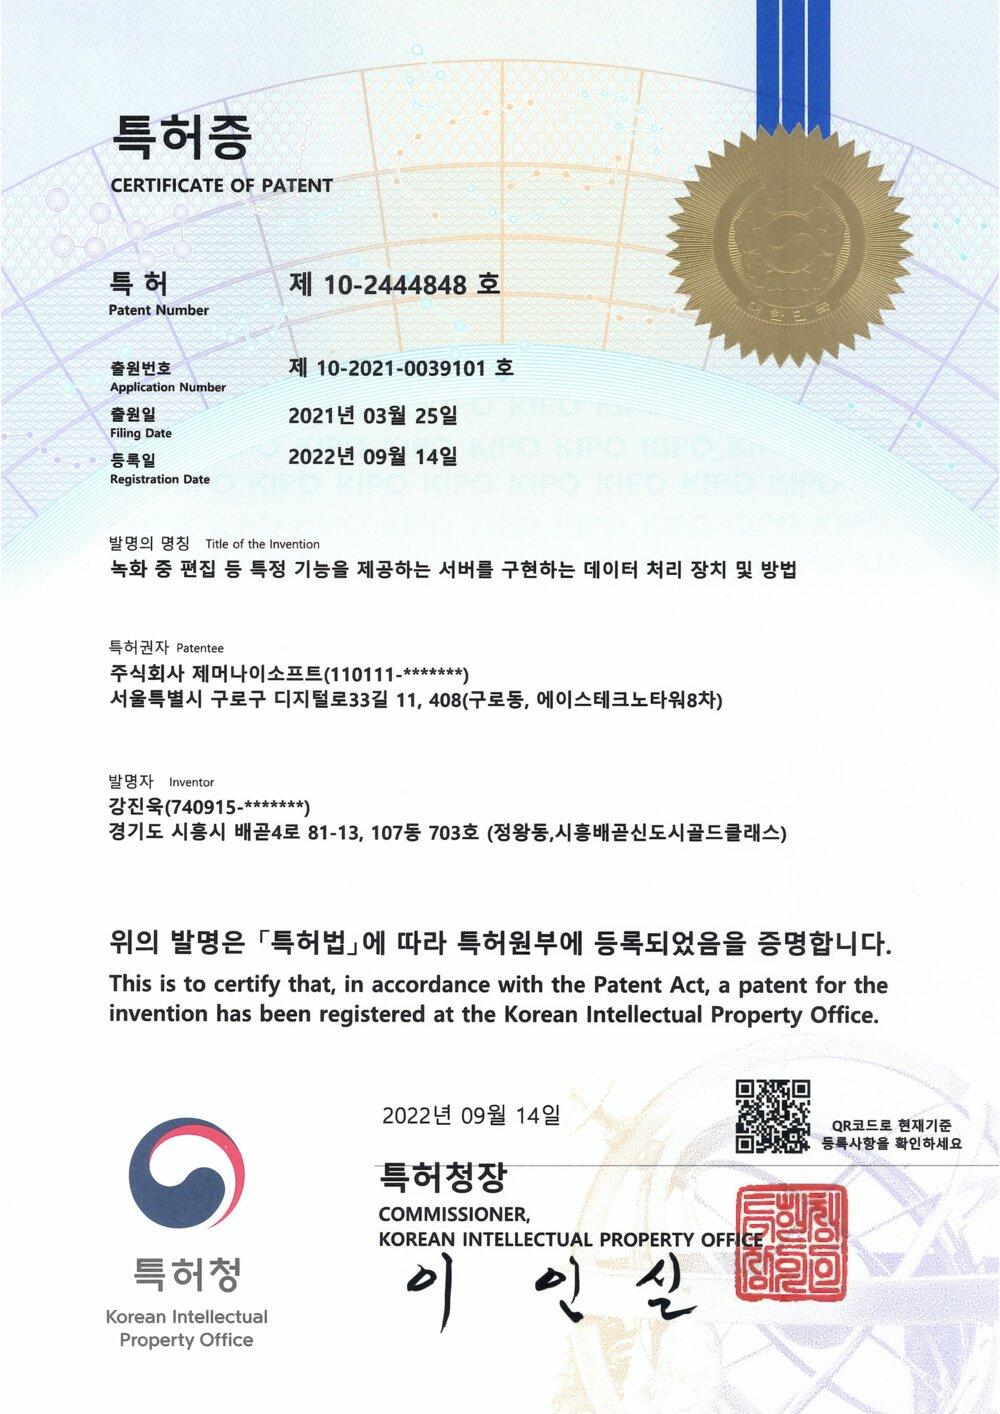
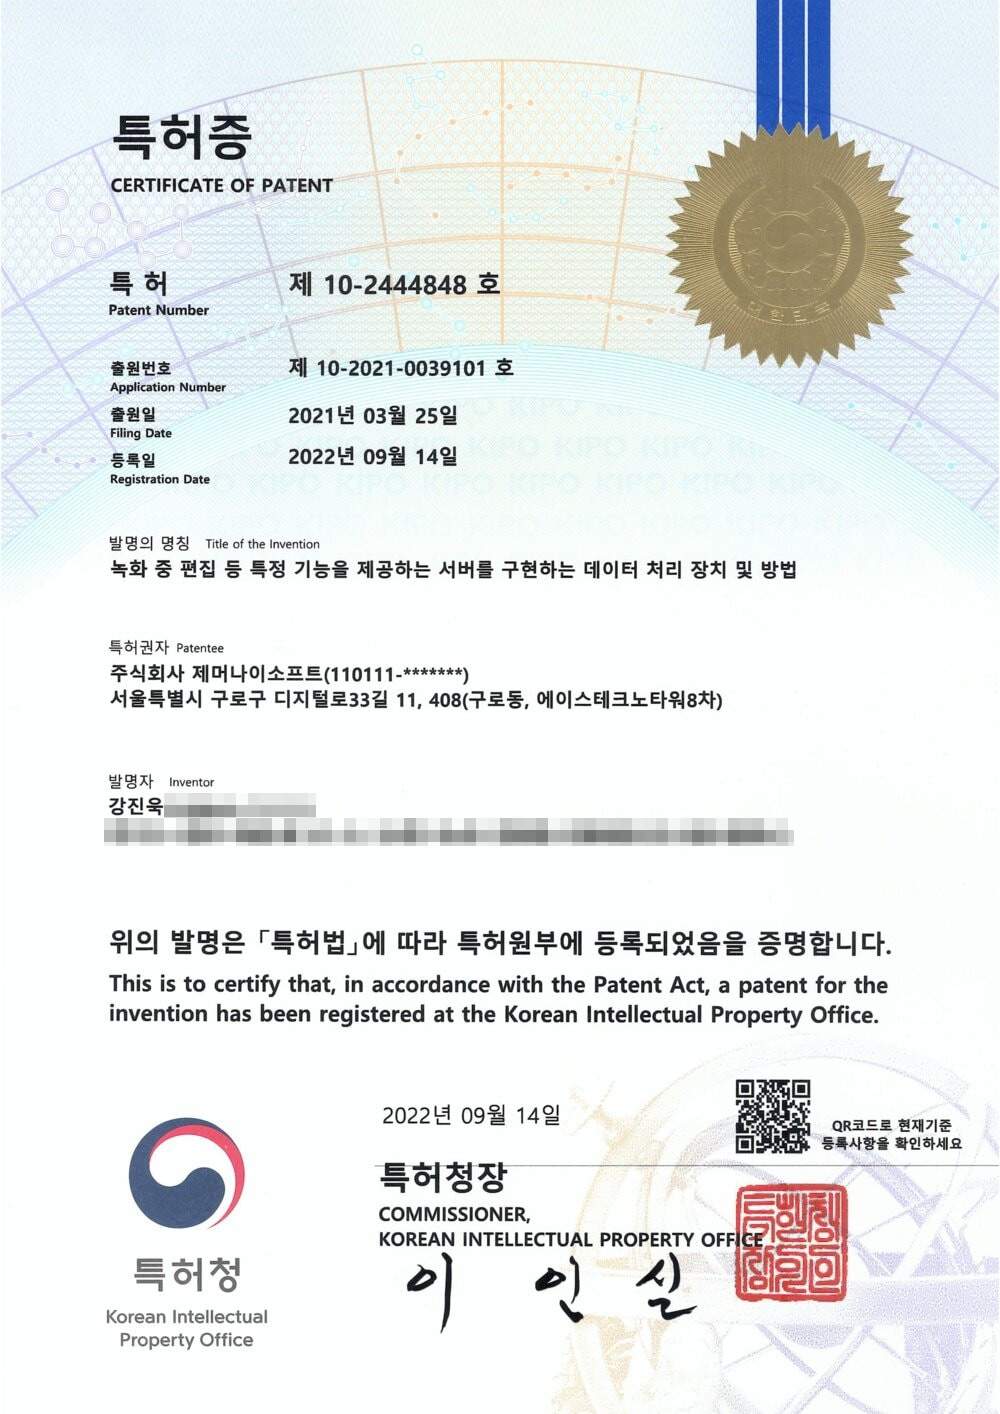
feat: 크로스 플랫폼 기반 AI 프롬프팅 특허 추가
인증 현황에 PATENT 03(2026.09 등록) 특허증과 카드를 추가하고 보유 특허 수를 3으로 갱신. 주요 연혁과 상세 연혁 2026.09에 특허 등록을 반영.

특허증 이미지의 발명자 주소·생년월일을 모자이크 처리하고, PATENT 02 설명 문구를 다듬음.

Changed region(s): [[0.093, 0.5601, 0.806, 0.6223]]

diff --git a/components/certification-data.ts b/components/certification-data.ts
@@ -9,7 +9,7 @@
 /** 히어로 상단 요약 지표. */
 export const CERT_STATS: { v: string; k: string }[] = [
   { v: "5", k: "GS 인증 1등급" },
-  { v: "2", k: "보유 특허" },
+  { v: "3", k: "보유 특허" },
   { v: "1등급", k: "GS 인증 최고 등급" },
   { v: "TTA", k: "국가 공인 (한국정보통신기술협회)" },
 ];
@@ -86,7 +86,14 @@ export const PATENTS: Patent[] = [
     status: "등록",
     title:
       "녹화 중 편집 등 특정 기능을 제공하는 서버를 구현하는 데이터 처리 장치 및 방법",
-    desc: "녹화와 동시에 편집 등 기능을 제공하는 서버를 구현하기 위한 데이터 처리 장치 및 방법입니다.",
+    desc: "녹화가 끝나기를 기다리지 않고, 녹화 중인 영상을 바로 편집할 수 있게 하는 서버 데이터 처리 기술입니다.",
     img: "/assets/certification/patent-02.jpg",
+  },
+  {
+    no: "PATENT 03",
+    status: "등록",
+    title: "크로스 플랫폼 기반 AI 프롬프팅 장치 및 방법",
+    desc: "여러 플랫폼에서 AI 프롬프트를 일관되게 구성·실행하기 위한 장치 및 방법입니다.",
+    img: "/assets/certification/patent-03.jpg",
   },
 ];

diff --git a/components/history-data.ts b/components/history-data.ts
@@ -299,6 +299,13 @@ export const HISTORY_ERAS: HistoryEra[] = [
         title: "방송미디어 R&D '마이미디어 플랫폼 핵심기술개발' 총괄",
         desc: "KETI·ETRI와 함께 페르소나 AI 기반 개인 맞춤형 미디어 기술을 개발하는 국책과제를 이끕니다.",
       },
+      {
+        year: "2026.09",
+        tag: "PATENT",
+        major: true,
+        title: "크로스 플랫폼 기반 AI 프롬프팅 특허 등록",
+        desc: "여러 플랫폼에서 AI 프롬프트를 일관되게 구성·실행하는 기술을 특허로 확보했습니다.",
+      },
     ],
   },
 ];

diff --git a/components/history-detail-data.ts b/components/history-detail-data.ts
@@ -293,6 +293,7 @@ export const HISTORY_DETAIL: DetailYear[] = [
         month: "04",
         text: "방송미디어 R&D '마이미디어 플랫폼 핵심기술개발' 총괄 (KETI·ETRI 공동)",
       },
+      { month: "09", text: "크로스 플랫폼 기반 AI 프롬프팅 장치 및 방법 특허 등록" },
     ],
   },
 ];
